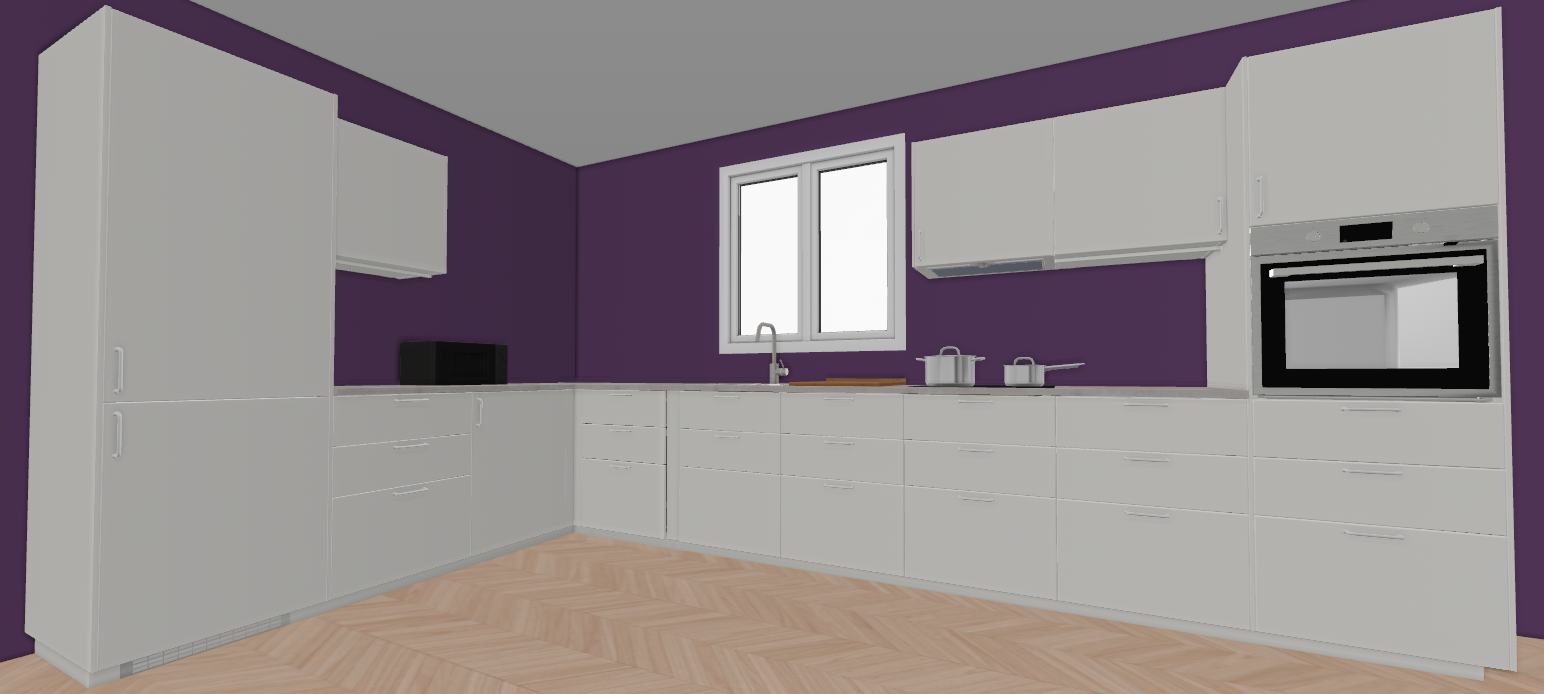
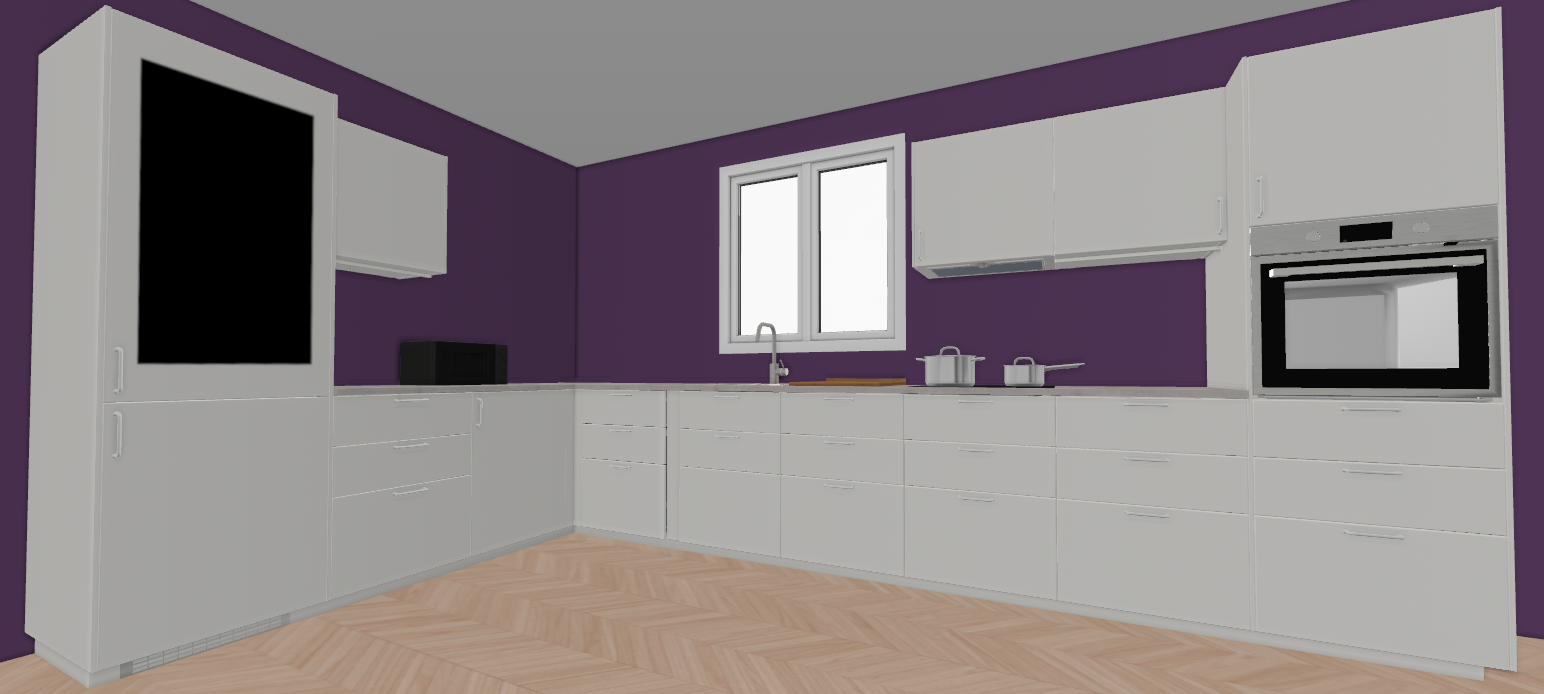
updated and added image, finished fridge and home button

Changed region(s): [[0.0622, 0.0908, 0.2176, 0.5447]]

diff --git a/css/kjoekken.css b/css/kjoekken.css
@@ -1,3 +1,9 @@
+/*
+TODO: 
+stove interaction + animation
+*/
+
+/* bakgrunn ligger nederst */
 #background{
     position: fixed;
     top: 0;
@@ -7,20 +13,24 @@
     z-index: -1;
     overflow: hidden;
 }
-
+/* skalerer med vindustørrelse */
 #background-image{
     width: 100vw;
     height: 100vh;
 }
 
+/* alle interaktive hitboxene ligger øverst */
 .hitbox{
     position: absolute;
     z-index: 3;
+    
+    /*debug*/
     /* background-color: #8c00ff;
-    opacity: 0.7; */
-    /* Example positions, adjust as needed */
+    opacity: 0.7;  */
 }
 
+/* hitbox */
+/* forskjøvet boksen for bedre treffsikkerhet */
 #fridge{
     top: 7%;
     left: 7%;
@@ -28,7 +38,24 @@
     width: 14.5%;
     height: 95%;
 }
+/* skjermen starter av */
+#fridge-screen{
+    position: absolute;
+    top: 6.7%;
+    left: 8.1%;
+    width: 13.2%;
+    height: 47.2%;
+    opacity: 0;
+    transition: opacity 0.2s linear;
+}
+/* skjermen skrur seg på */
+#fridge:hover + #fridge-screen{
+    transition: opacity 0.2s linear;
+    opacity: 1;
+}
 
+/* hitbox */
+/* forskjøvet boksen for bedre treffsikkerhet */
 #microwave{
     top: 49%;
     left: 26%;
@@ -36,32 +63,52 @@
     width: 7%;
     height: 7%;
 }
+/* mikrobølgen starter av */
+#microwave-heat {
+    position: absolute;
+    top: 50.3%;
+    left: 29%;
+    width: 2.5%;
+    height: 4%;
+    transform: skewY(2deg);
+    background-color: rgb(255, 145, 0);
+    z-index: 0;
+    opacity: 0;
+    transition: opacity 0.1s ease-in 0s;
+}
+/* skrur seg på på hover */
+#microwave:hover + #microwave-heat {
+    transition: opacity 0.1s ease-in 0s;
+    opacity: 0.6;
+}
 
+/* hitbox */
 #tap{
-    top: 50%;
+    top: 48%;
     left: 48%;
     width: 3%;
     height: 8%;
 }
+/* vannet skrur seg av fra bunnen (kinda) */
 #water-flow{
     background-color: aqua;
     position:absolute;
     width: 0.5%;
     height: 0;
-    /* height: 5.7%; */
     top: 55%;
     left: 48.8%;
     z-index: 0;
     opacity: 1;
     transition: height 0.4s linear, top 0.4s linear;
 }
+/* vannet skrur seg på */
 #tap:hover + #water-flow{
     transition: height 0.5s linear, top 0s linear;
     height: 5.7%;
     top: 49.5%;
 }
 
-
+/* hitbox */
 #knife{
     top: 48%;
     left: 51%;
@@ -80,19 +127,21 @@
 }
 @keyframes knife-cutting-animation {
     0% {transform: translateY(0);}
-    /* 50% {transform: translateY(-100%);} */
     100% {transform: translateY(-100%);}
 }
 
+/* hitbox */
 #stove{
     top:  48%;
     left: 59%;
     width: 10%;
     height: 10%;
 }
+
+/* hitbox */
 #blender{
     top: 42%;
-    left:70%;
+    left:71%;
     width: 6%;
     height: 14%;
 }
@@ -103,6 +152,7 @@
     top: 44%;
     left: 72%;
 }
+/* blenderen rister */
 #blender:hover + #blender-image{
     animation: blender-animation 0.1s linear 0s infinite;
 }
@@ -113,6 +163,9 @@
     75%{transform: rotate(-15deg);}
     100%{transform: rotate(0);}
 }
+
+/* forskjøvet boksen for bedre treffsikkerhet */
+/* hitbox */
 #oven{
     top: 31%;
     left: 81%;
@@ -132,42 +185,28 @@
     z-index: 0;
     opacity: 0;
     transition: opacity 1s ease-in 0s;
-    /* animation: oven-heat-anim 1s infinite; */
 }
 #oven:hover + #oven-heat{
-    /* animation: oven-heat-anim 3s linear forwards; */
     transition: opacity 2s ease-in 0s;
     opacity: 0.6;
 }
 
-#microwave-heat{
-    position: absolute;
-    top: 50.3%;
-    left: 29%;
-    width: 2.5%;
-    height: 4%;
-    transform: skewY(2deg);
-    background-color: rgb(255, 145, 0);
-    z-index: 0;
-    opacity: 0;
-    transition: opacity 0.1s ease-in 0s;
-}
-
-#microwave:hover + #microwave-heat {
-    transition: opacity 0.1s ease-in 0s;
-    opacity: 0.6;
-}
-
-
+/* hjemknappen starter gjennomsiktig */
 #home-button{
-    position: absolute;
+position: absolute;
     width: 100px;
     height: 100px;
     top: 0%;
     left: 0;
     z-index: 1;
-    background-color: blueviolet;
 }
 #home-image{
     max-width: 100%;
+    opacity: 0.2;
+    transition: opacity 0.2s linear;
+}
+/* hjemknappen blir solid når brukeren hover over knappen */
+#home-image:hover{
+    transition: opacity 0.2s linear;
+    opacity: 1;
 }

diff --git a/kjoekken.html b/kjoekken.html
@@ -10,19 +10,37 @@
 
   <body>
     <div id="background">
+      <!-- bakgrunnsbilde -->
       <img src="images/kjoekken/kjoekken-bakgrunn.png" alt="Perspektiv av et kjøkken med forskjellige maskiner" id="background-image">
+
+      <!-- alle interaktive elementer har en div som sier hvor musa må være for å aktivere animasjonen -->
       <div class="hitbox" id="fridge"></div>
+      <!-- skjerm på kjøleskapet som skrur seg på -->
+      <img id="fridge-screen" src="images/kjoekken/kjoekken-skjerm.png" alt="Skjermbilde av et smart kjøleskap">
+
       <div class="hitbox" id="microwave"></div>
+      <!-- mikrobølgeovn som skrur seg på -->
       <div id="microwave-heat"></div>
+
       <div class="hitbox" id="tap"></div>
+      <!-- vann fra kranen -->
       <div id="water-flow"></div>
+
       <div class="hitbox" id="knife"></div>
+      <!-- kniv robot som kutter automatisk -->
       <img id="knife-image" src="images/kjoekken/kniv.png" alt="En kjøkkenkniv">
+
       <div class="hitbox" id="stove"></div>
+
       <div class="hitbox" id="blender"></div>
+      <!-- blender som skrur seg på -->
       <img id="blender-image" src="images/kjoekken/blender.png" alt="En blender">
+
       <div class="hitbox" id="oven"></div>
+      <!-- ovn som skrur seg på -->
       <div id="oven-heat"></div>
+
+      <!-- hjemknapp / tilbakeknapp som blir mindre gjennomsiktig -->
       <div id="home-button">
         <a href="index.html"><img id="home-image" src="images/hus.png" alt="Hjem knapp"></a>
       </div>
